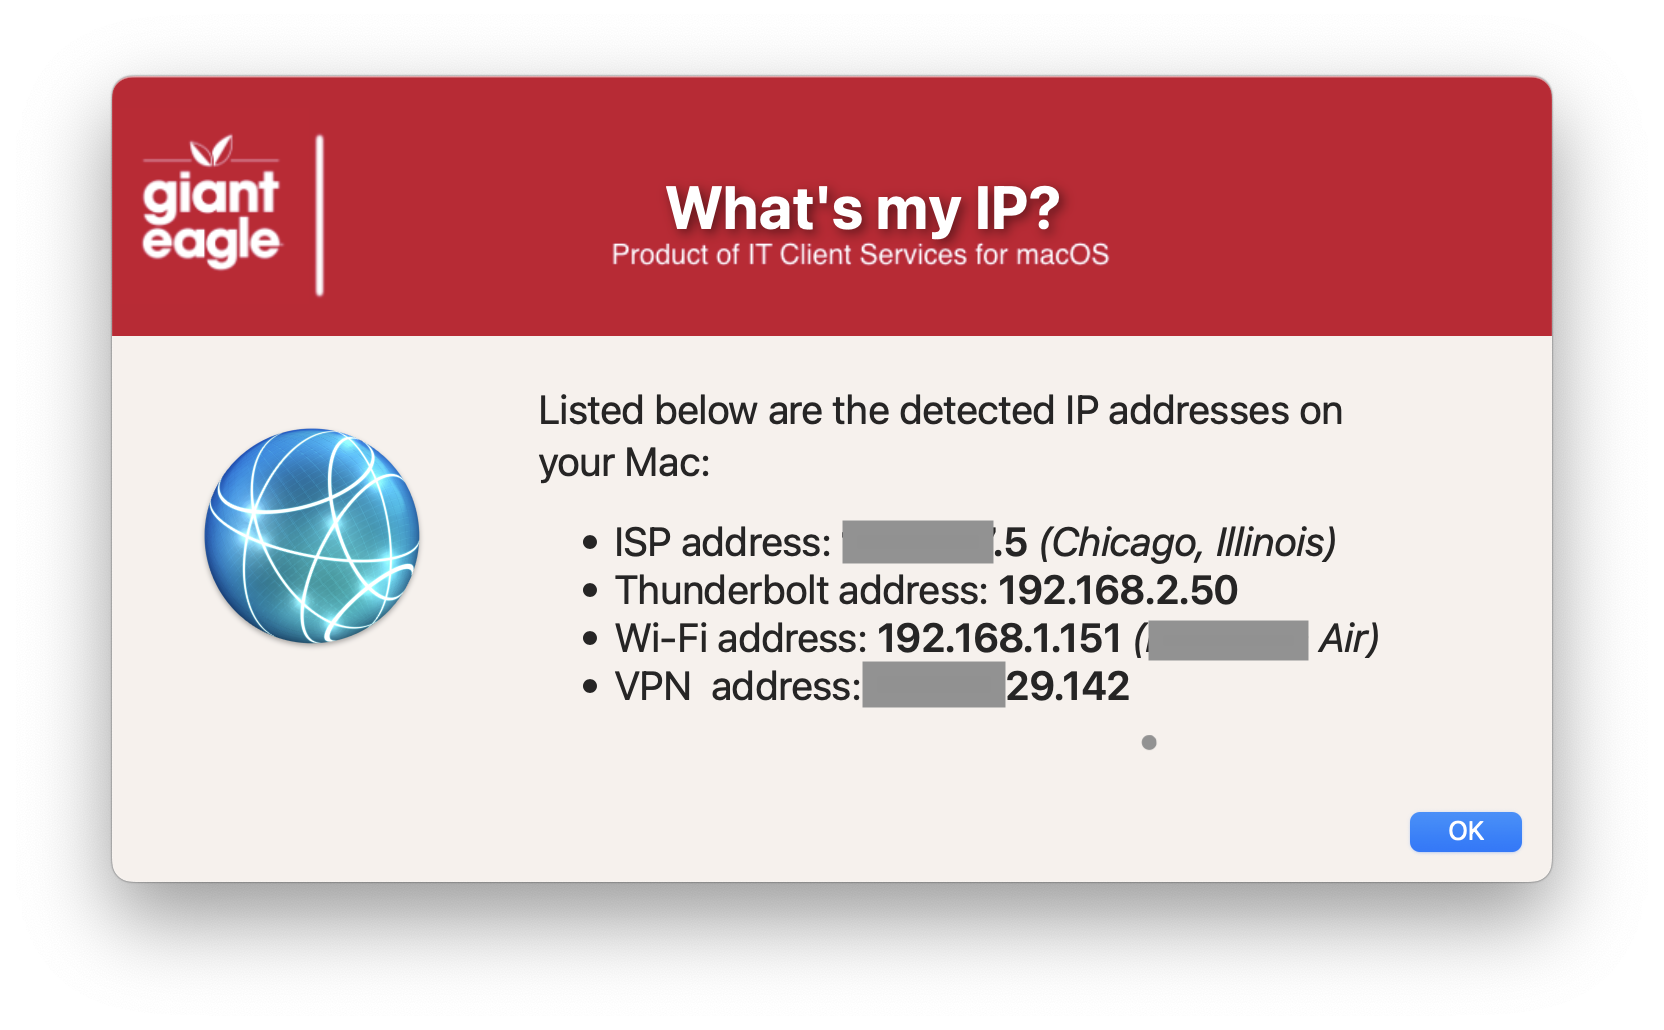
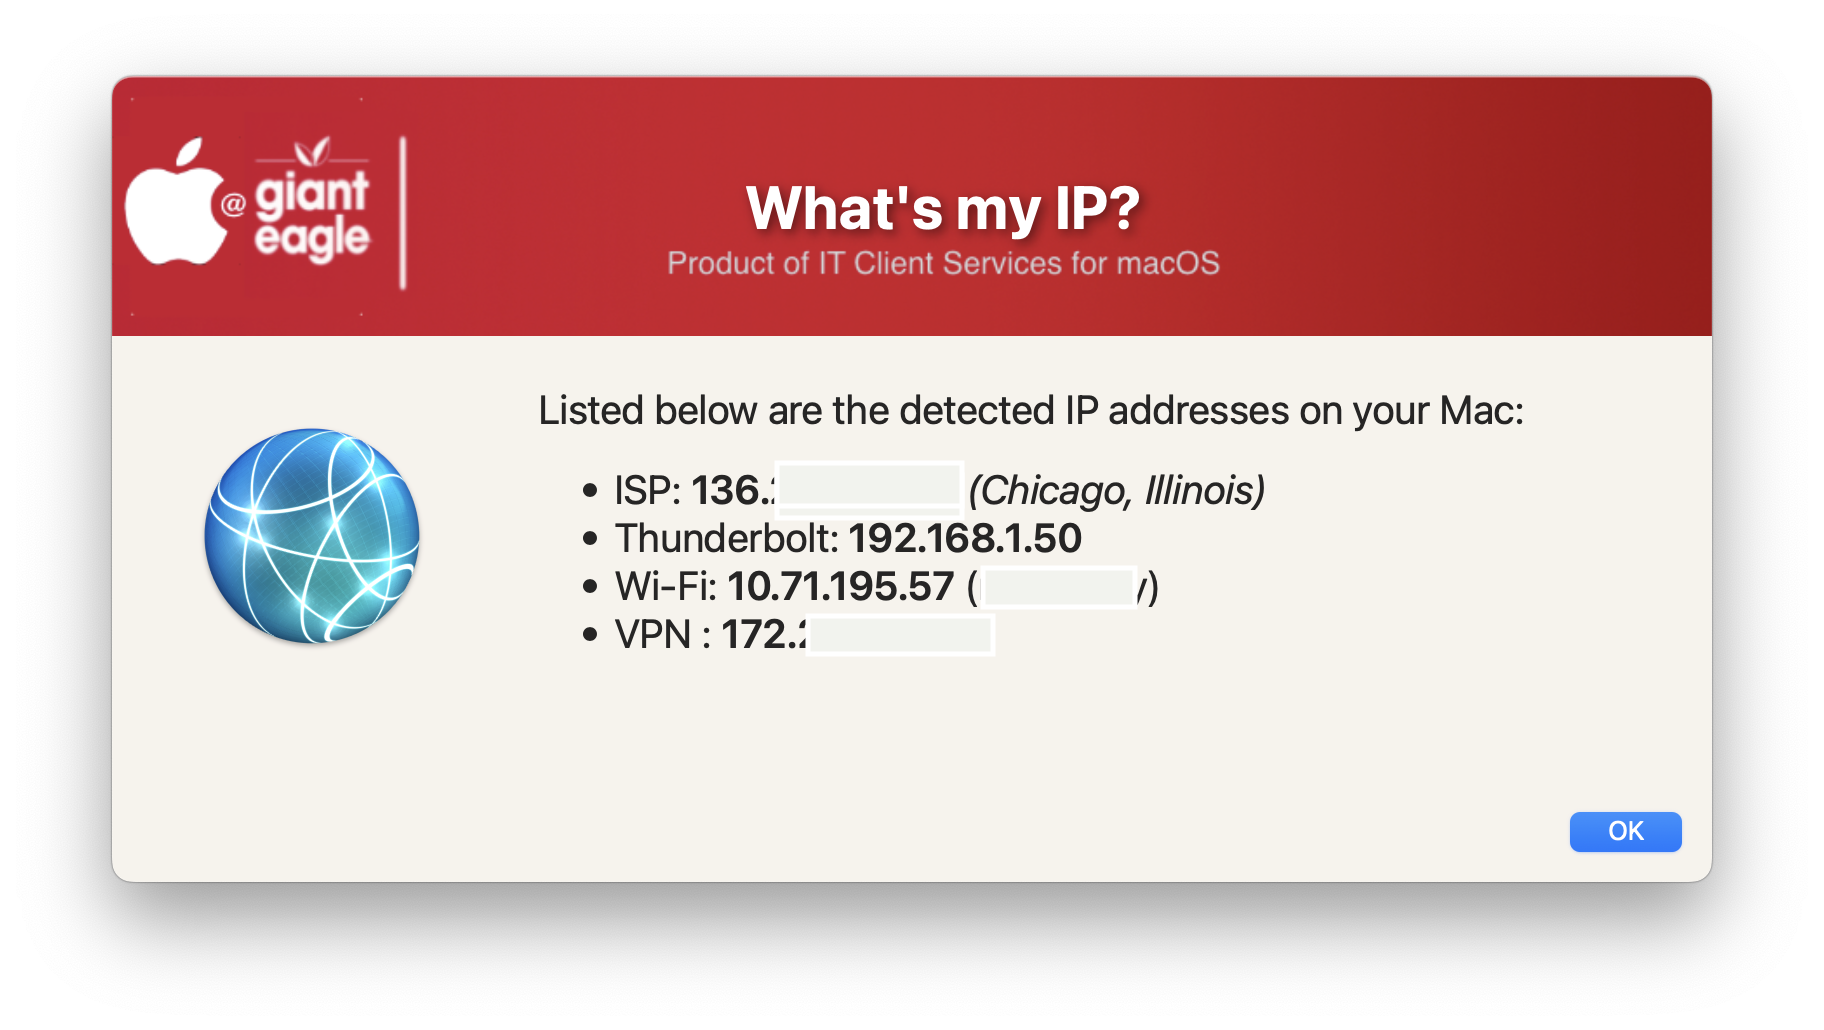
Display the IPv4 address on all adapters

diff --git a/WhatsMyIP/README.md b/WhatsMyIP/README.md
@@ -2,7 +2,15 @@
 
 Nice GUI to display all of the IPv4 address on a user's system (will find Cisco AnyConnet IP address if connected)
 
-![](/WhatsMyIP/WhatsMyIP.png)
+![](./WhatsMyIP.png)
 
-##### _v1.0 - Initial Commit_
-##### _v1.1 - Major code cleanup & documentation / Structred code to be more inline / consistent across all apps_
+#### 1.0 - Initial rewrite using Swift Dialog prompts
+#### 1.1 - Code cleanup to be more consistent with all apps
+#### 1.2 - Reworked logic for all physical adapters to accommodate for older macs
+#### 1.3 - Included logic to display Wifi name if found
+#### 1.4 - Changed logic for Wi-Fi name to accommodate macOS 15.6 changes
+####       Reworked top section for better idea of what can be modified
+#### 1.5 - Code cleanup
+####       Added feature to read in defaults file
+####       removed unnecessary variables.
+####       Fixed typos
